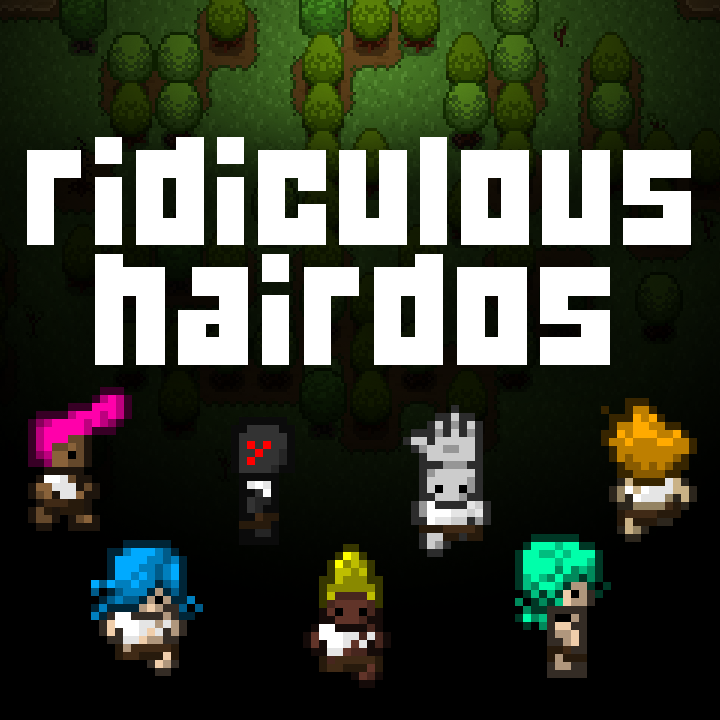
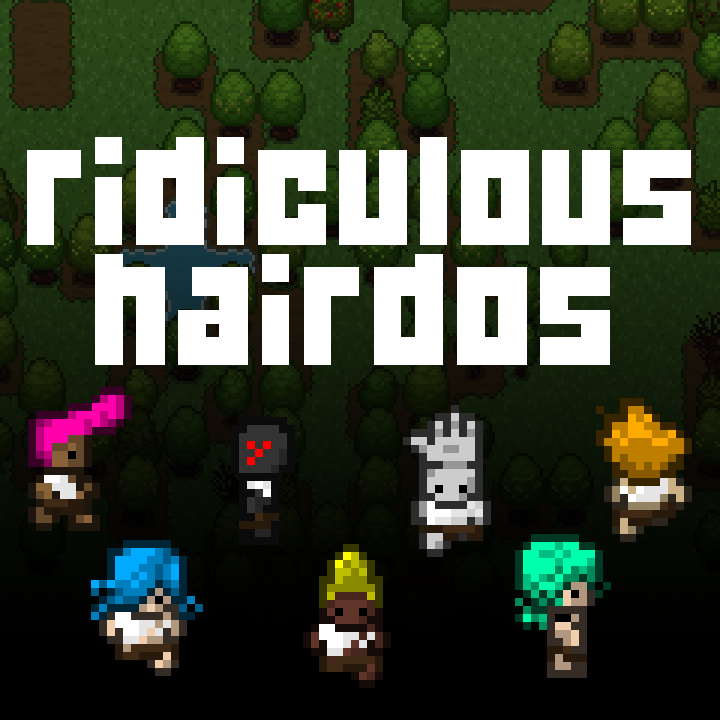
Update thumbnail/screenshots

diff --git a/README.md b/README.md
@@ -14,3 +14,5 @@ cd ridiculoushairdos
 
 ## Screenshots
 ![Ridiculous Hairdos](https://raw.githubusercontent.com/WaywardGame/ridiculoushairdos/master/mod.png "Ridiculous Hairdos")
+
+![Screenshot #1](https://steamuserimages-a.akamaihd.net/ugc/936055893420698510/8641C6CFCB7CC42C14CE03676CF444E173837680/ "Screenshot #1")
